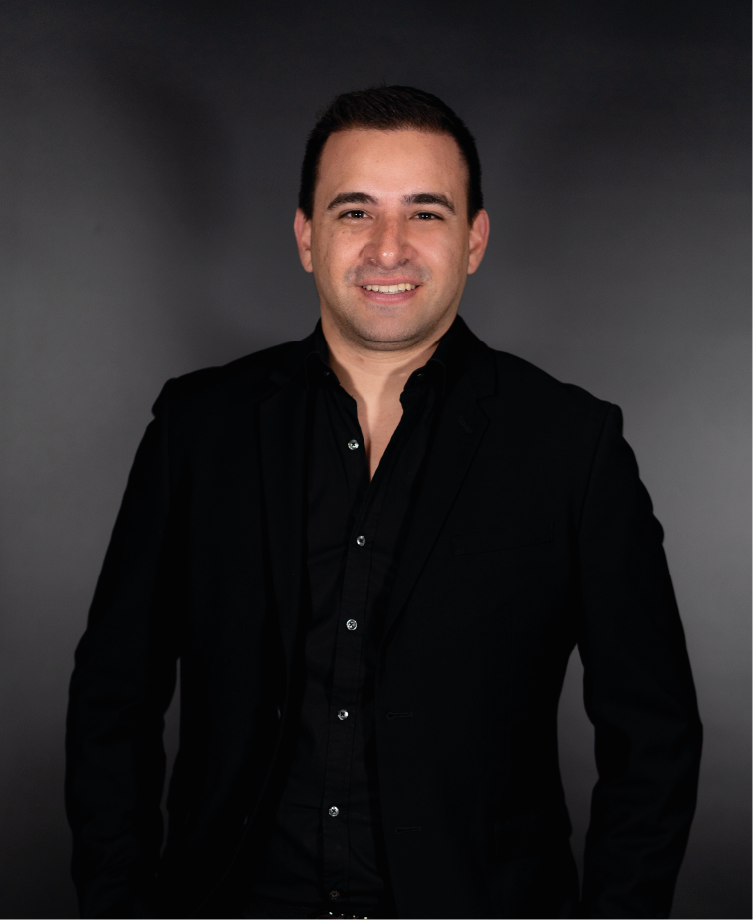
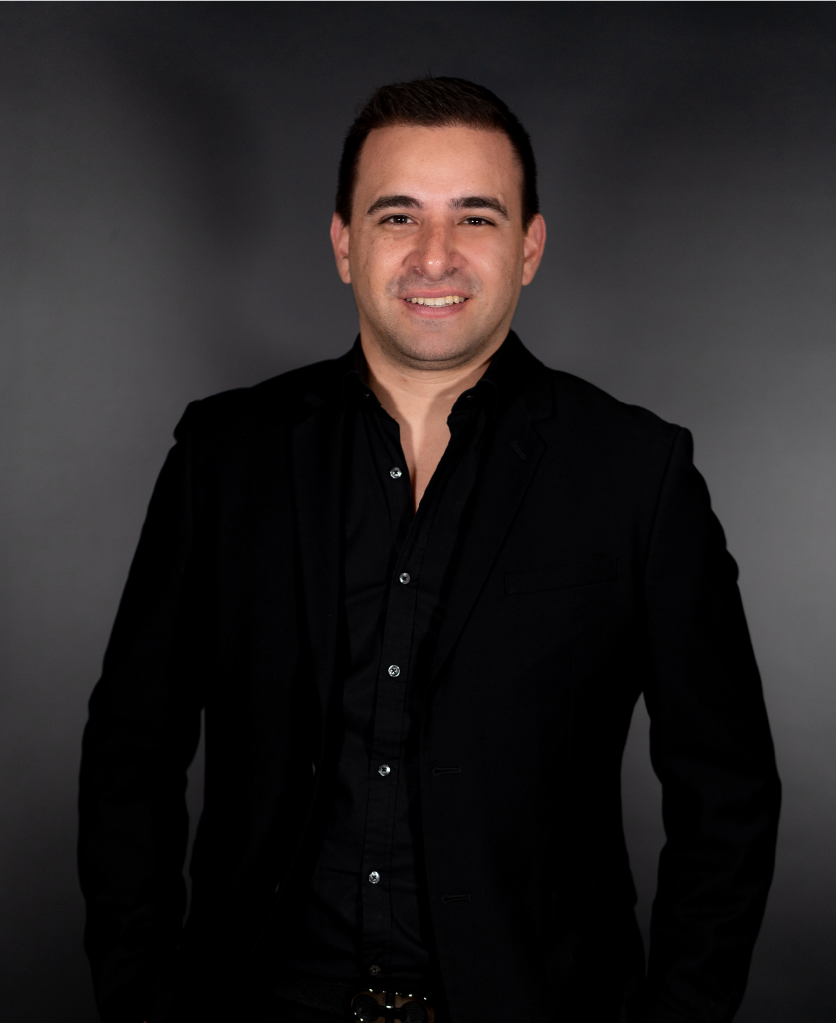
Changes

diff --git a/team-custom.css b/team-custom.css
@@ -72,7 +72,7 @@
   }
   
   .img-background-one{
-    background-image: url("./assets/images/team/maria-jesus-img.jpg");
+    background-image: url("./assets/images/team/maria-jesus-img.png");
     width: 50%;
     height: 800px;
     background-size: cover;
@@ -90,7 +90,7 @@
   }
   
   .img-background-two{
-    background-image: url("./assets/images/team/carlos-sandoval-img.jpg");
+    background-image: url("./assets/images/team/carlos-sandoval-img.png");
     width: 50%;
     height: 800px;
     background-size: cover;

diff --git a/styles.css b/styles.css
@@ -244,6 +244,9 @@ b{
     font-size: 20px;
 }
 
+.vision-section-mobile{
+    display: none;
+}
 
 /* 
 ####################
@@ -357,6 +360,23 @@ b{
         border-radius: 50%;
         margin-top: 24px;
     }
+
+
+  /* 
+##########
+# Vision #
+##########
+*/
+
+
+    .vision-section-desktop{
+        display: none;
+    }
+
+    .vision-section-mobile{
+        display: block;
+    }
+
 
 }
 

diff --git a/index.html b/index.html
@@ -151,7 +151,7 @@
       </div>
 
       <div class="col-md-6 image-container">
-        <img class="about-img" src="./assets/images/team/maria-jesus-img.jpg" alt="">
+        <img class="about-img" src="./assets/images/team/maria-jesus-img.png" alt="">
       </div>
     </div>
   </div>
